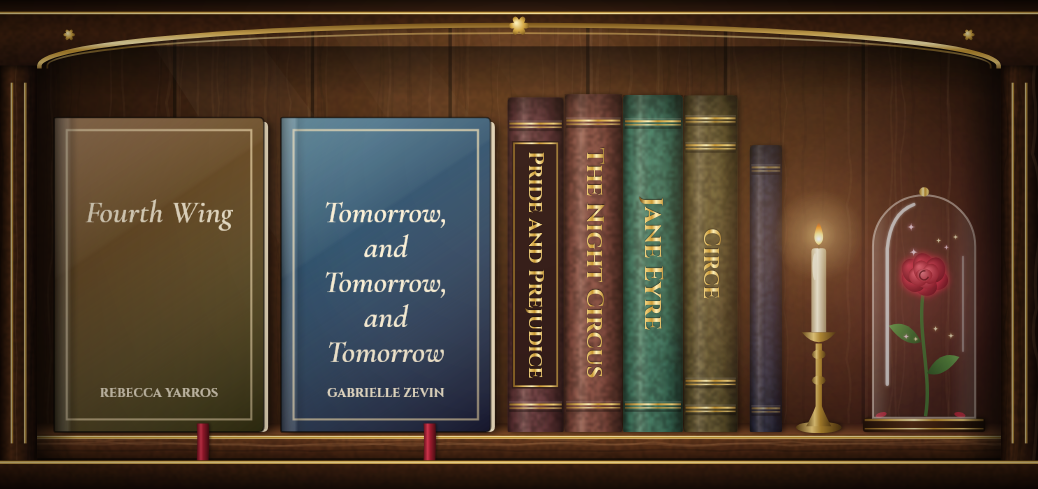
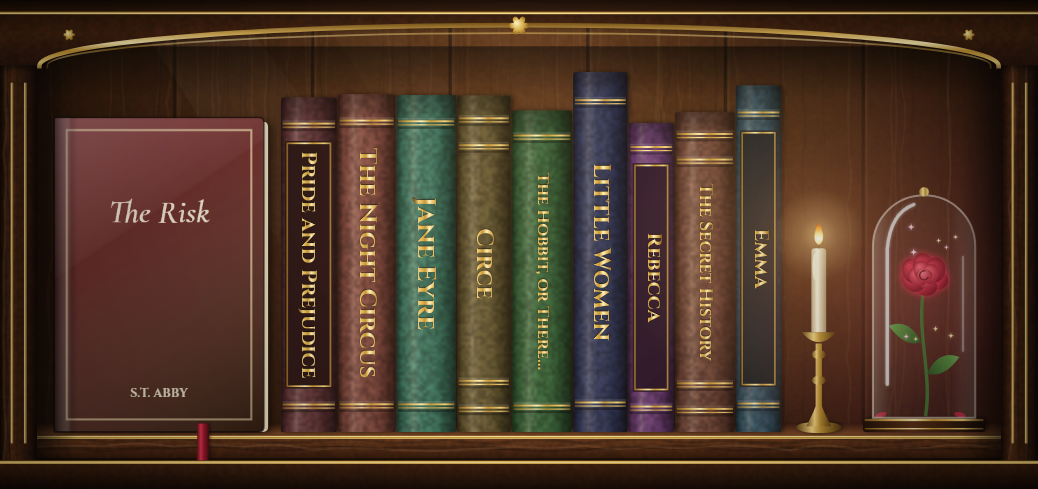
Preview with the real currently-reading shelf
Claude-Session: https://claude.ai/code/session_01DFpaGPqchzARfTBeW4za7c

diff --git a/enchanted-library-widget/tools/sample-feed.js b/enchanted-library-widget/tools/sample-feed.js
@@ -4,8 +4,7 @@ const book = (id, title, author, hue) => ({ id: String(id), title, author, hue }
 
 const sampleBooks = {
   reading: [
-    book(1, "Fourth Wing (The Empyrean, #1)", "Rebecca Yarros", 28),
-    book(2, "Tomorrow, and Tomorrow, and Tomorrow", "Gabrielle Zevin", 200),
+    book(33131867, "The Risk (Mindf*ck, #1)", "S.T. Abby", 355),
   ],
   favorites: [
     book(10, "Pride and Prejudice", "Jane Austen", 345),
